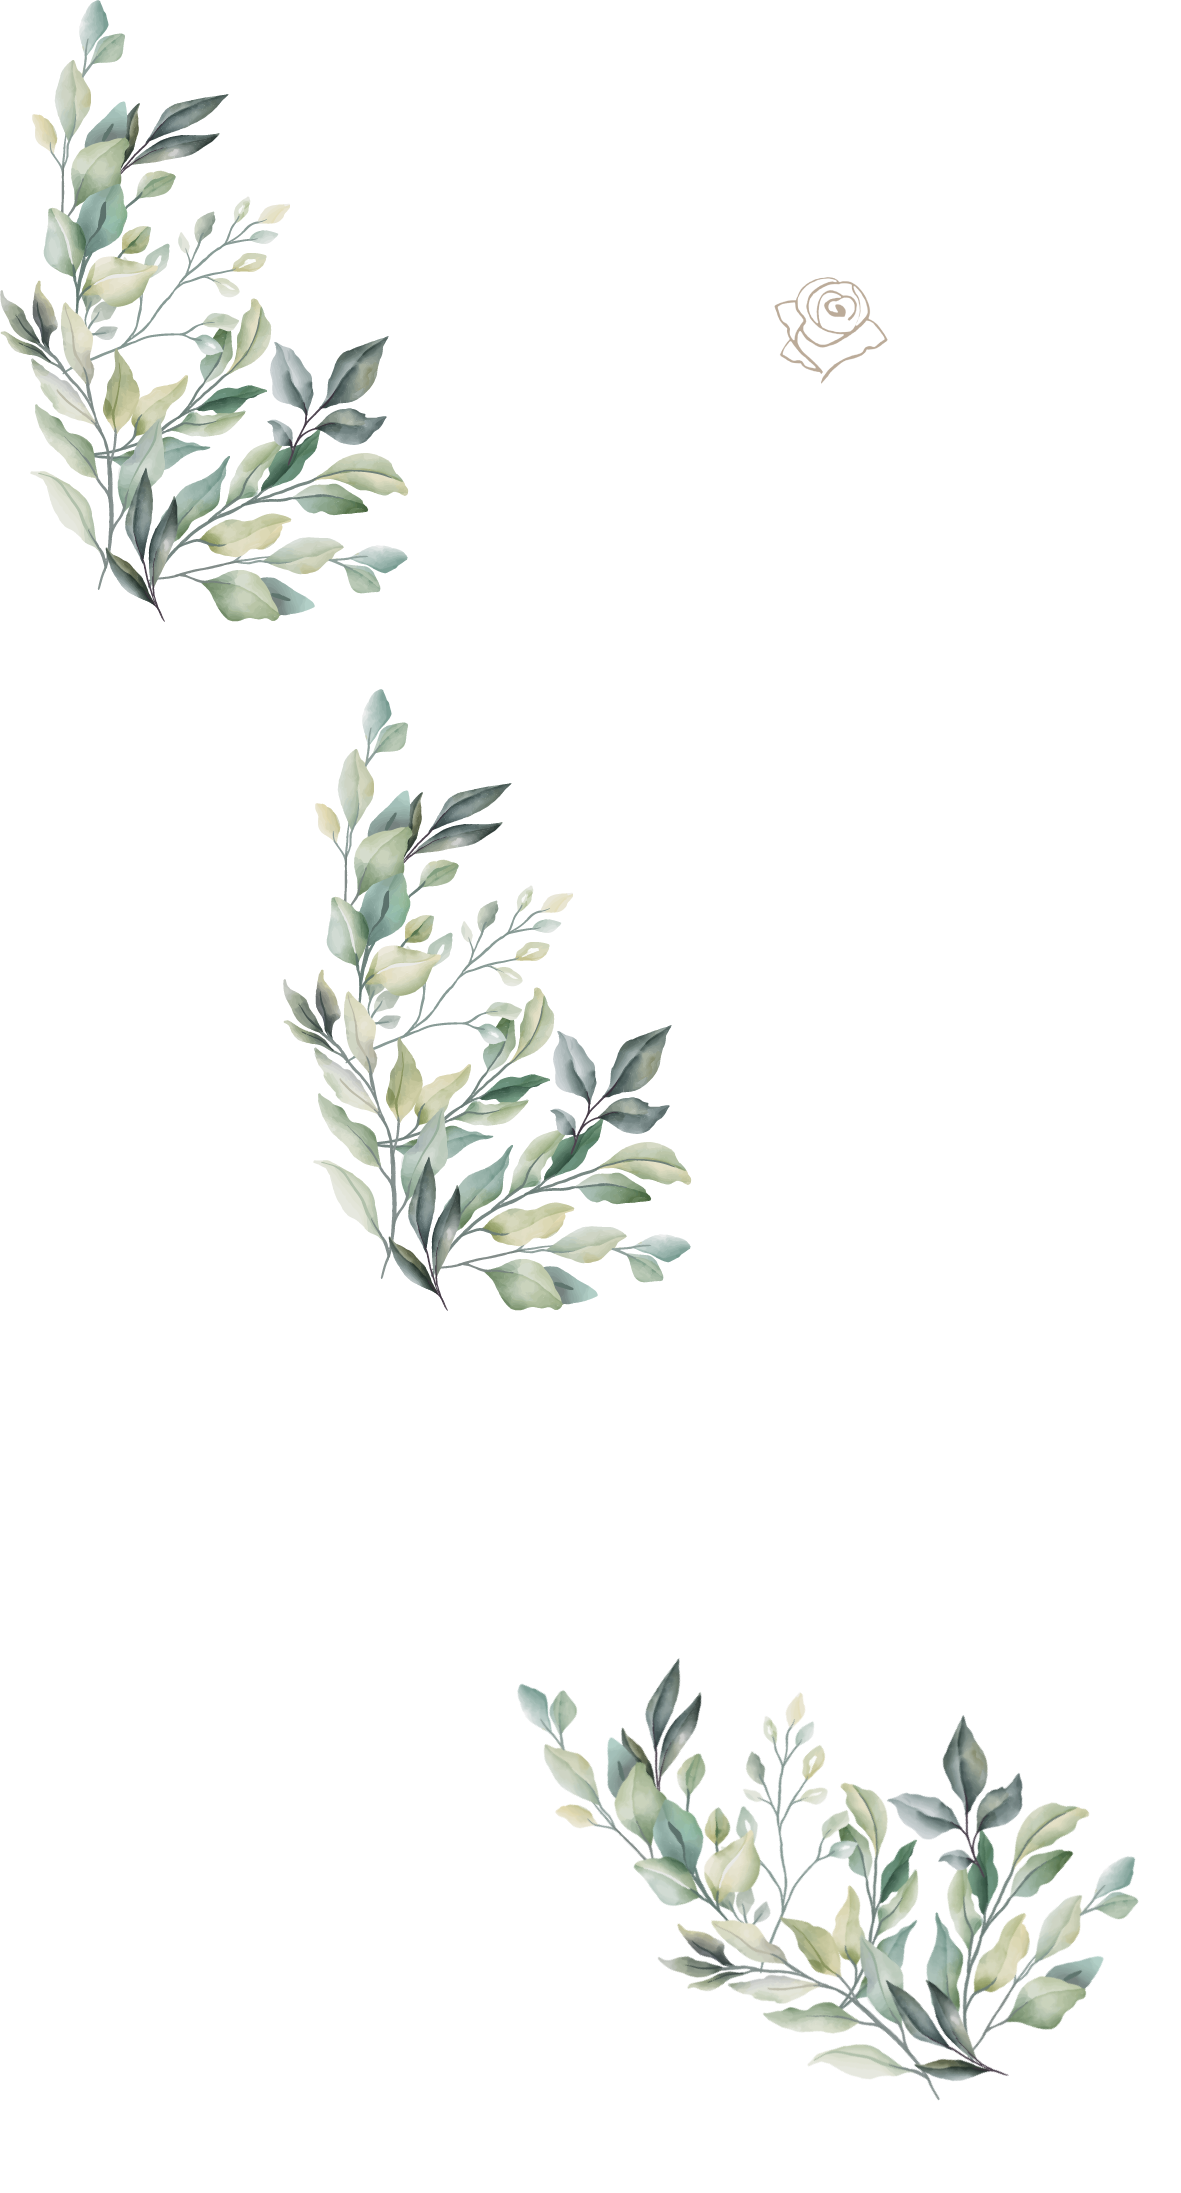
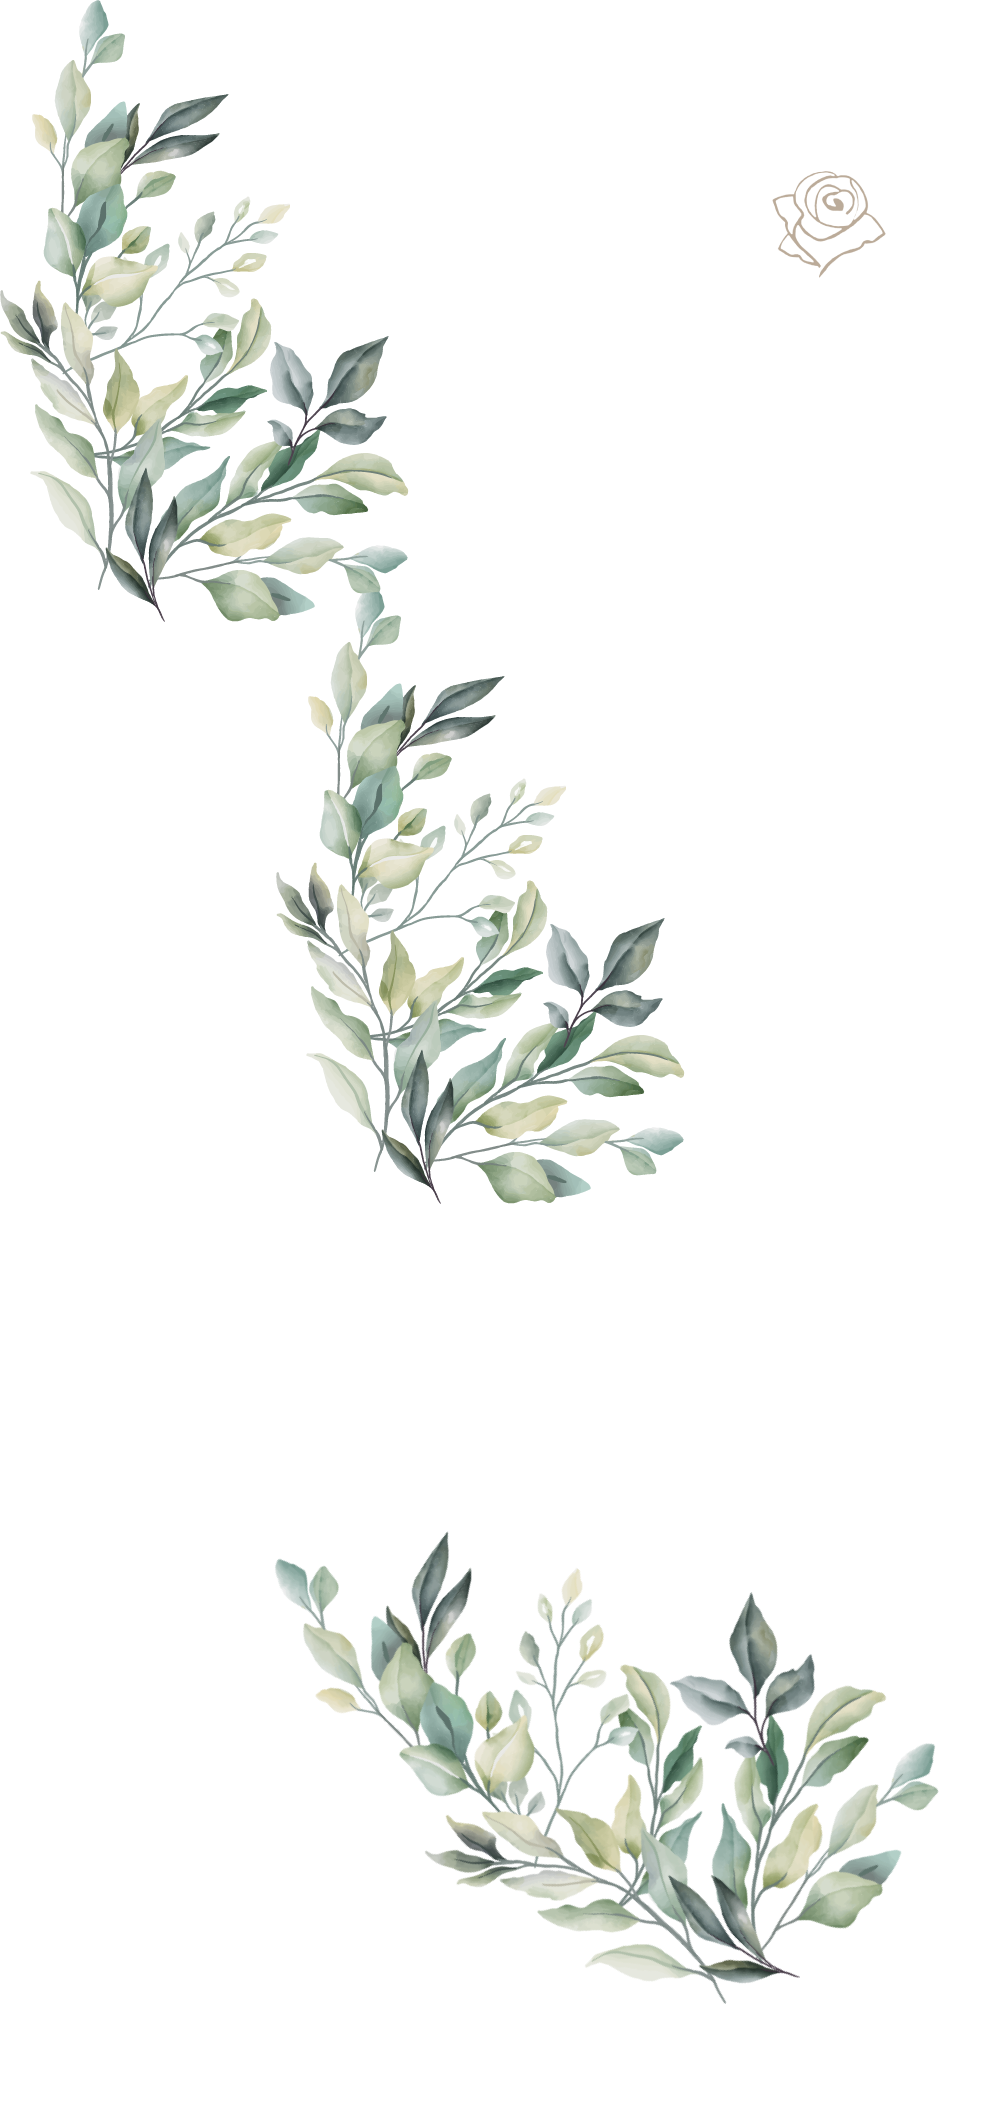
Imágenes, botones y fondo de ramas
Se arreglaron el tamaño de las imágenes de los slider, se crearon los botones para su funcionalidad y re agrego las ramas de fondo desde sección "nosotros" hasta "galería"

diff --git a/index.html b/index.html
@@ -117,91 +117,96 @@
           </div>
         </div>
       </section>
-      <section class="about" id="about">
-        <div class="container">
-          <div class="context">
-            <div class="part1">
-              <img src="img/about.png" alt="" />
-            </div>
-            <div class="part2">
-              <h2>Concentrate en tu gran día</h2>
-              <h3>Nosotros nos enfocamos en ustedes</h3>
-              <p>
-                Sabemos lo especial que es este día y sabemos la planificación y
-                el esfuerzo necesarios para llegar hasta aquí. Así que mientras
-                vives en la magia de la celebración, estamos aquí para
-                registrarla. <br />
-                <br />
-                Nos apasiona contar historias de amor a traves del lente de una
-                camára y entregarles a nuestros clientes un recuerdos que
-                querran ver toda su vida.
-              </p>
-              <div class="btn">
-                <a class="contacto">Contáctanos</a>
+      <section class="containerback">
+        <section class="backRama">
+          <section class="about" id="about">
+            <div class="container">
+              <div class="context">
+                <div class="part1">
+                  <img src="img/about.png" alt="" />
+                </div>
+                <div class="part2">
+                  <h2>Concentrate en tu gran día</h2>
+                  <h3>Nosotros nos enfocamos en ustedes</h3>
+                  <p>
+                    Sabemos lo especial que es este día y sabemos la
+                    planificación y el esfuerzo necesarios para llegar hasta
+                    aquí. Así que mientras vives en la magia de la celebración,
+                    estamos aquí para registrarla. <br />
+                    <br />
+                    Nos apasiona contar historias de amor a traves del lente de
+                    una camára y entregarles a nuestros clientes un recuerdos
+                    que querran ver toda su vida.
+                  </p>
+                  <div class="btn">
+                    <a class="contacto">Contáctanos</a>
+                  </div>
+                </div>
               </div>
             </div>
-          </div>
-        </div>
-      </section>
-      <section class="reels" id="video">
-        <div class="container">
-          <div class="context">
-            <h2>Reels</h2>
-            <div class="autoplay">
-              <div class="boda1">
-                <img src="./img/foto1.png" alt="" /><video
-                  src="video/video_1.mp4"
-                  autoplay
-                  loop
-                ></video>
-              </div>
-              <div class="boda2">
-                <img src="img/foto2.png" alt="" /><video
-                  src="video/video_2.mp4"
-                  autoplay
-                  loop
-                ></video>
-              </div>
-              <div class="boda1">
-                <img src="./img/foto1.png" alt="" /><video
-                  src="video/video_1.mp4"
-                  autoplay
-                  loop
-                ></video>
-              </div>
-              <div class="boda2">
-                <img src="img/foto2.png" alt="" /><video
-                  src="video/video_2.mp4"
-                  autoplay
-                  loop
-                ></video>
+          </section>
+          <section class="reels" id="video">
+            <div class="container">
+              <div class="context">
+                <h2>Reels</h2>
+                <div class="autoplay">
+                  <div class="boda1">
+                    <img src="./img/foto1.png" alt="" /><video
+                      src="video/video_1.mp4"
+                      autoplay
+                      loop
+                    ></video>
+                  </div>
+                  <div class="boda2">
+                    <img src="img/foto2.png" alt="" /><video
+                      src="video/video_2.mp4"
+                      autoplay
+                      loop
+                    ></video>
+                  </div>
+                  <div class="boda1">
+                    <img src="./img/foto1.png" alt="" /><video
+                      src="video/video_1.mp4"
+                      autoplay
+                      loop
+                    ></video>
+                  </div>
+                  <div class="boda2">
+                    <img src="img/foto2.png" alt="" /><video
+                      src="video/video_2.mp4"
+                      autoplay
+                      loop
+                    ></video>
+                  </div>
+                </div>
+                <div class="btn">
+                  <a class="contacto">Solicita un presupuesto</a>
+                </div>
               </div>
             </div>
-            <div class="btn">
-              <a class="contacto">Solicita un presupuesto</a>
+          </section>
+
+          <section class="galeria">
+            <div class="container">
+              <div class="context">
+                <h2>Galeria</h2>
+              </div>
             </div>
-          </div>
-        </div>
-      </section>
-      <section class="galeria">
-        <div class="container">
-          <div class="context">
-            <h2>Galeria</h2>
-          </div>
-        </div>
-        <div class="autoplay2">
-          <div><img src="./img/foto1-1.png" alt="" /></div>
-          <div><img src="img/foto1-2.png" alt="" /></div>
-          <div><img src="./img/foto1-3.png" alt="" /></div>
-          <div><img src="img/foto1-4.png" alt="" /></div>
-          <div><img src="./img/foto1-1.png" alt="" /></div>
-          <div><img src="img/foto1-2.png" alt="" /></div>
-          <div><img src="./img/foto1-3.png" alt="" /></div>
-          <div><img src="img/foto1-4.png" alt="" /></div>
-        </div>
-        <div class="btn container">
-          <a class="contacto">Contáctanos</a>
-        </div>
+            <div class="autoplay2">
+              <div><img src="./img/foto1-1.png" alt="" /></div>
+              <div><img src="img/foto1-2.png" alt="" /></div>
+              <div><img src="./img/foto1-3.png" alt="" /></div>
+              <div><img src="img/foto1-4.png" alt="" /></div>
+              <div><img src="./img/foto1-1.png" alt="" /></div>
+              <div><img src="img/foto1-2.png" alt="" /></div>
+              <div><img src="./img/foto1-3.png" alt="" /></div>
+              <div><img src="img/foto1-4.png" alt="" /></div>
+            </div>
+            <div class="btn container">
+              <a class="contacto">Contáctanos</a>
+            </div>
+          </section>
+        </section>
       </section>
     </main>
     <footer>

diff --git a/css/style.css b/css/style.css
@@ -156,7 +156,7 @@ a.cerrar {
   width: 100%;
   height: 100vh;
   overflow: hidden;
-  z-index: -1; }
+  z-index: -3; }
   .home-bg video {
     min-width: 100%;
     min-height: 100%; }
@@ -248,6 +248,16 @@ a.cerrar {
         padding: 15px 45px;
         border-radius: 16.93px;
         font-style: italic; }
+
+.containerback {
+  position: relative; }
+
+.backRama::before {
+  content: url(../img/backabout.png);
+  position: absolute;
+  z-index: -2;
+  top: -120px;
+  left: 21%; }
 
 .reels .autoplay .boda1,
 .reels .autoplay .boda2 {

diff --git a/scss/style.scss b/scss/style.scss
@@ -186,7 +186,7 @@ a.cerrar {
   width: 100%;
   height: 100vh;
   overflow: hidden;
-  z-index: -1;
+  z-index: -3;
   video {
     min-width: 100%;
     min-height: 100%;
@@ -315,6 +315,18 @@ a.cerrar {
       }
     }
   }
+}
+
+.containerback {
+  position: relative;
+}
+
+.backRama::before {
+  content: url(../img/backabout.png);
+  position: absolute;
+  z-index: -2;
+  top: -120px;
+  left: 21%;
 }
 
 .reels {
